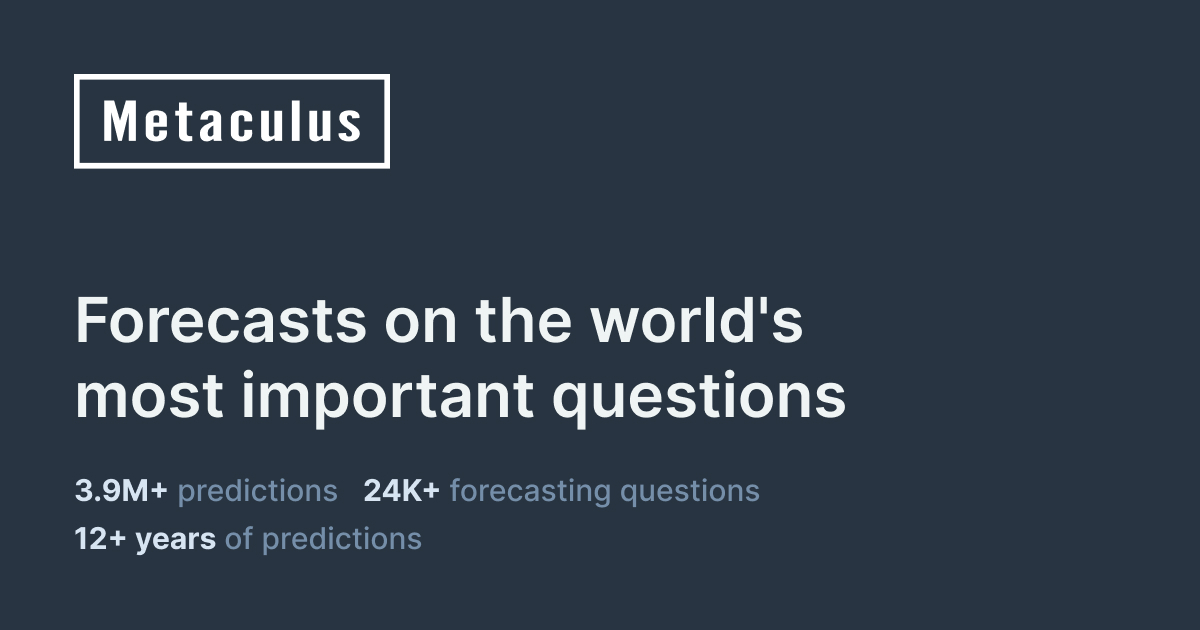
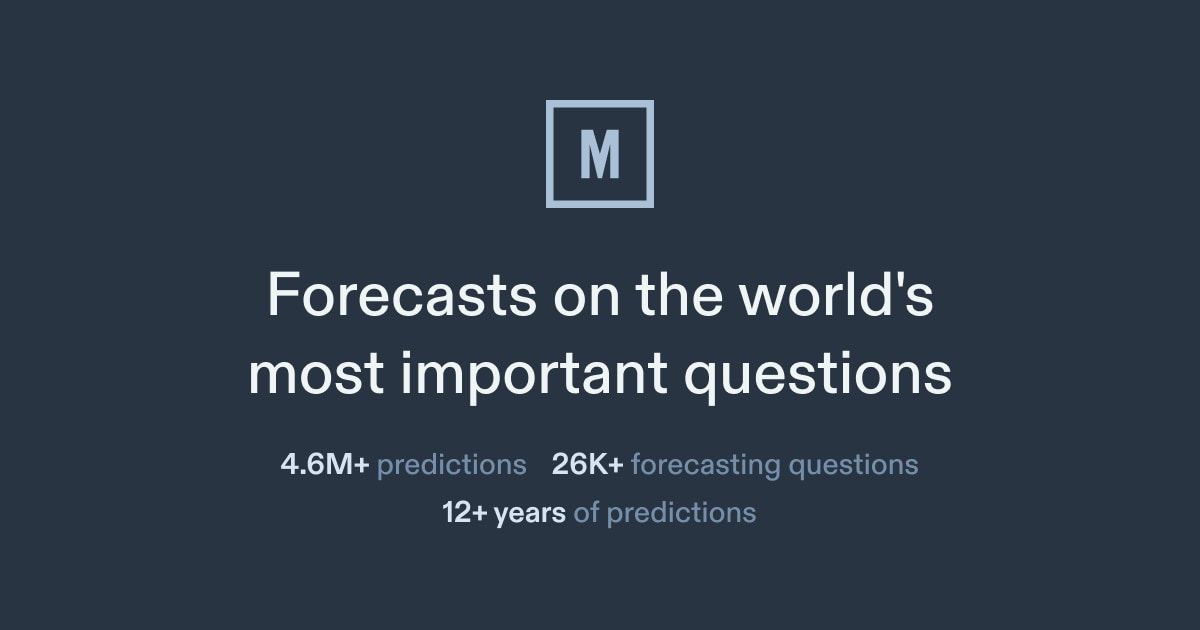
Roll out the new Metaculus wordmark (#5316)
* Roll out the new Metaculus wordmark

- Add the redrawn wordmark as a master SVG (metaculus_wordmark.svg),
  normalized like the mark masters (viewBox only, fill=currentColor), and
  regenerate the MetaculusWordmark component from it. All call sites size
  by height with w-auto, so no caller changes; the new art is ~12% narrower
  at the same height.
- The raster script is not re-run: the bare and boxed M sources are
  unchanged and the wordmark has no raster outputs. Note this in the
  script header.
- Storefront navbar: replace the boxed M + "Metaculus" text + tagline with
  the wordmark alone; label the link for screen readers and drop the now
  unused clarityInAComplexWorld string from all locales.
- Replace the default OG/Twitter banner with the new export (same path and
  1200x630 size, so no metadata change).

* Storefront navbar: shrink the wordmark and inset it on md+

Reduce the wordmark 25% (28px -> 21px, md 36px -> 27px) and add a 12px
left margin from the md breakpoint up.

---------

Changed region(s): [[0.0617, 0.4222, 0.8017, 0.8746], [0.0617, 0.0905, 0.3392, 0.2714], [0.4317, 0.1508, 0.555, 0.3317]]

diff --git a/front_end/src/components/logos/metaculus_wordmark.tsx b/front_end/src/components/logos/metaculus_wordmark.tsx
@@ -2,13 +2,45 @@ import { FC, SVGProps } from "react";
 
 const MetaculusWordmark: FC<SVGProps<SVGSVGElement>> = (props) => (
   <svg
-    viewBox="0 0 100 16"
+    viewBox="0 0 834 152"
     fill="none"
     xmlns="http://www.w3.org/2000/svg"
     {...props}
   >
     <path
-      d="M2.72914 15.8338V4.65282L5.45828 15.8338H6.85783L9.58697 4.65282V15.8338H12.3861V0H8.46732L6.15805 7.88131L3.84878 0H0V15.8338H2.72914ZM20.3113 16C23.0404 16 24.5449 14.8605 24.5449 12.7953L24.5445 12.6255C24.543 12.4646 24.5366 12.3182 24.51 11.7033H21.5009V12.7003C21.5009 13.6736 21.151 14.1009 20.3463 14.1009C19.5765 14.1009 19.2616 13.7448 19.2616 12.8902V10.2789H24.51V6.81306C24.51 4.98516 22.9704 3.86944 20.4162 3.86944C17.6171 3.86944 16.2176 4.96142 16.2176 7.16914V12.6766C16.2176 13.7685 16.4625 14.4095 17.1623 15.003C17.932 15.6677 18.9817 16 20.3113 16ZM21.4659 8.64095H19.2616V6.64688C19.2616 6.10089 19.6815 5.76855 20.3813 5.76855C21.081 5.76855 21.4659 6.07715 21.4659 6.64688V8.64095ZM32.6801 16C33.1699 16 33.5548 15.9525 34.4295 15.8338V13.9347L33.8697 13.9585C32.785 13.9585 32.2952 13.6261 32.2952 12.8665V5.93472H34.4295V4.03561H32.2952V0.807121H29.2512V4.03561H27.7816V5.93472H29.2512V13.5786C29.2512 15.1691 30.4408 16 32.6801 16ZM40.1154 16C41.1301 16 41.9698 15.6439 42.7046 14.8843C42.7396 15.2404 42.8096 15.5964 42.9145 15.8338H46.0635C45.7992 15.2733 45.7533 14.9669 45.749 14.0947L45.7486 6.69436C45.7486 4.86647 44.3491 3.86944 41.7949 3.86944C40.2204 3.86944 39.0308 4.29674 38.366 5.1276C37.9111 5.67359 37.7362 6.21958 37.5612 7.50148H40.5003C40.6403 6.07715 40.8502 5.76855 41.7599 5.76855C42.5646 5.76855 42.7046 5.93472 42.7046 6.83679V8.16617C42.3897 8.3086 42.1798 8.40356 42.1098 8.4273C39.6606 9.51929 39.6606 9.51929 38.9258 10.0653C37.9111 10.8487 37.4563 11.7507 37.4563 13.0089C37.4563 14.9792 38.366 16 40.1154 16ZM41.445 14.0772C40.8152 14.0772 40.5003 13.6499 40.5003 12.8427C40.5003 11.4896 41.0601 10.7062 42.7046 9.78041V13.4599C42.2847 13.8872 41.8999 14.0772 41.445 14.0772ZM53.6389 16C56.403 16 57.9075 14.8605 57.9075 12.7715L57.9071 12.6386C57.9054 12.4436 57.8953 12.2782 57.8375 11.5134H54.8285V12.7003C54.8285 13.7448 54.5486 14.1009 53.6738 14.1009C52.9041 14.1009 52.5892 13.7448 52.5892 12.8902V6.97923C52.5892 6.12463 52.9041 5.76855 53.6738 5.76855C54.5486 5.76855 54.8285 6.12463 54.8285 7.16914V8.16617H57.8375C57.8935 7.53946 57.9047 7.36855 57.9069 7.2037L57.9075 7.07418C57.9075 5.0089 56.368 3.86944 53.6389 3.86944C52.3093 3.86944 51.2596 4.20178 50.4898 4.86647C49.7901 5.4362 49.5451 6.07715 49.5451 7.19288V12.6766C49.5451 13.7923 49.7901 14.4332 50.4898 15.003C51.2596 15.6677 52.3093 16 53.6389 16ZM63.7334 16C64.6081 16 65.3079 15.7151 66.5675 14.8131L66.8124 15.8338H69.6115V4.03561H66.5675V13.6261C65.9377 13.9822 65.6228 14.1009 65.2029 14.1009C64.6781 14.1009 64.4331 13.816 64.4331 13.2226V4.03561H61.3891V13.2938C61.3891 14.4807 61.4941 14.9318 61.8789 15.3353C62.2288 15.7151 62.9986 16 63.7334 16ZM76.487 15.8338V0H73.443V15.8338H76.487ZM82.6278 16C83.5025 16 84.2023 15.7151 85.4619 14.8131L85.7068 15.8338H88.5059V4.03561H85.4619V13.6261C84.8321 13.9822 84.5172 14.1009 84.0973 14.1009C83.5725 14.1009 83.3276 13.816 83.3276 13.2226V4.03561H80.2835V13.2938C80.2835 14.4807 80.3885 14.9318 80.7734 15.3353C81.1233 15.7151 81.893 16 82.6278 16ZM95.8013 16C98.3205 16 100 14.7893 100 12.9614C100 11.7745 99.3352 10.8961 97.4808 9.56677L96.2562 8.71217C95.3115 8.02374 94.9966 7.59644 94.9966 6.88427C94.9966 6.10089 95.3115 5.76855 96.0113 5.76855C96.6761 5.76855 97.0259 6.12463 97.0259 6.83679V7.00297L99.93 6.86053C99.93 6.10089 99.8601 5.74481 99.6151 5.29377C99.0903 4.39169 97.8657 3.86944 96.2212 3.86944C93.4221 3.86944 92.0225 4.86647 92.0225 6.83679C92.0225 8.07122 92.6873 9.13946 94.0169 10.089L95.2065 10.9199C96.6411 11.9407 96.956 12.3442 96.956 13.0801C96.956 13.6973 96.5011 14.1009 95.8013 14.1009C95.0666 14.1009 94.6467 13.7211 94.6467 13.0801C94.6467 12.9614 94.6467 12.8902 94.6817 12.7003L91.7426 12.8427C91.7076 12.9614 91.7076 13.0089 91.7076 13.1276C91.7076 14.8843 93.2821 16 95.8013 16Z"
+      d="M812.303 73.4506C812.162 69.7812 810.962 67.0291 808.704 65.1943C806.587 63.3596 804.117 62.4423 801.295 62.4423C797.908 62.4423 795.297 63.5713 793.462 65.8294C791.627 67.9464 790.71 70.4163 790.71 73.2389C790.71 75.2148 791.204 77.1906 792.192 79.1665C793.18 81.0012 795.72 82.6948 799.813 84.2473L812.515 89.328C820.559 92.433 826.063 96.667 829.027 102.03C832.132 107.393 833.685 113.25 833.685 119.601C833.685 124.117 832.838 128.351 831.144 132.303C829.592 136.114 827.404 139.501 824.582 142.465C821.759 145.428 818.372 147.757 814.42 149.451C810.468 151.144 806.164 151.991 801.506 151.991C792.756 151.991 785.417 149.239 779.49 143.735C776.526 141.053 774.127 137.737 772.292 133.785C770.457 129.692 769.469 124.964 769.328 119.601H789.651C790.075 122.565 791.063 125.317 792.615 127.857C794.309 130.398 797.202 131.668 801.295 131.668C804.4 131.668 807.152 130.68 809.551 128.704C812.091 126.587 813.362 123.694 813.362 120.024C813.362 117.061 812.585 114.52 811.033 112.403C809.48 110.286 806.658 108.452 802.565 106.899L792.192 103.088C785.417 100.548 780.054 96.8081 776.102 91.8684C772.292 86.7877 770.387 80.6484 770.387 73.4506C770.387 68.9344 771.233 64.7709 772.927 60.9604C774.621 57.0086 776.949 53.6215 779.913 50.7988C782.736 47.9762 786.052 45.8592 789.863 44.4478C793.673 42.8954 797.766 42.1191 802.142 42.1191C806.517 42.1191 810.539 42.8954 814.208 44.4478C818.019 46.0003 821.265 48.1878 823.946 51.0105C826.628 53.8332 828.745 57.2203 830.297 61.1721C831.85 64.9826 832.626 69.0755 832.626 73.4506H812.303Z"
+      fill="currentColor"
+    />
+    <path
+      d="M733.033 43.3867V150.718H711.44V140.345H711.016C708.758 143.732 706.006 146.555 702.76 148.813C699.655 150.93 695.633 151.988 690.693 151.988C688.012 151.988 685.33 151.565 682.649 150.718C679.967 149.73 677.568 148.178 675.451 146.061C673.334 143.944 671.64 141.262 670.37 138.016C669.1 134.629 668.465 130.536 668.465 125.738V43.3867H690.058V117.693C690.058 121.645 690.975 124.75 692.81 127.008C694.645 129.266 697.256 130.395 700.643 130.395C704.736 130.395 707.559 129.125 709.111 126.584C710.664 124.044 711.44 120.375 711.44 115.576V43.3867H733.033Z"
+      fill="currentColor"
+    />
+    <path
+      d="M600.465 0H622.058V120.457C622.058 124.55 622.764 127.372 624.175 128.925C625.728 130.336 628.55 131.253 632.643 131.677V152C627.703 152 623.258 151.577 619.306 150.73C615.354 150.024 611.967 148.542 609.144 146.284C606.322 144.167 604.134 141.203 602.582 137.393C601.17 133.441 600.465 128.29 600.465 121.939V0Z"
+      fill="currentColor"
+    />
+    <path
+      d="M564.033 43.3867V150.718H542.44V140.345H542.016C539.758 143.732 537.006 146.555 533.76 148.813C530.655 150.93 526.633 151.988 521.693 151.988C519.012 151.988 516.33 151.565 513.649 150.718C510.967 149.73 508.568 148.178 506.451 146.061C504.334 143.944 502.64 141.262 501.37 138.016C500.1 134.629 499.465 130.536 499.465 125.738V43.3867H521.058V117.693C521.058 121.645 521.976 124.75 523.81 127.008C525.645 129.266 528.256 130.395 531.643 130.395C535.736 130.395 538.559 129.125 540.111 126.584C541.664 124.044 542.44 120.375 542.44 115.576V43.3867H564.033Z"
+      fill="currentColor"
+    />
+    <path
+      d="M426.058 119.813C426.058 123.2 426.976 125.811 428.81 127.646C430.786 129.48 433.397 130.398 436.643 130.398C440.736 130.398 443.417 129.198 444.688 126.799C446.099 124.4 446.946 122 447.228 119.601H468.821C468.821 129.057 465.928 136.678 460.142 142.465C457.319 145.428 453.932 147.757 449.98 149.451C446.028 151.144 441.583 151.991 436.643 151.991C429.869 151.991 424.082 150.58 419.284 147.757C414.626 144.934 411.028 141.194 408.487 136.537C406.935 133.714 405.876 130.468 405.312 126.799C404.747 123.129 404.465 119.107 404.465 114.732V79.3782C404.465 75.0031 404.747 70.9808 405.312 67.3113C405.876 63.6419 406.935 60.3958 408.487 57.5732C411.028 52.9158 414.626 49.1758 419.284 46.3531C424.082 43.5305 429.869 42.1191 436.643 42.1191C441.583 42.1191 446.028 42.9659 449.98 44.6595C454.073 46.3531 457.531 48.6818 460.353 51.6456C465.999 57.9966 468.821 66.2528 468.821 76.4144H447.228C447.228 72.0393 446.24 68.8638 444.264 66.8879C442.43 64.7709 439.889 63.7125 436.643 63.7125C433.397 63.7125 430.786 64.7709 428.81 66.8879C426.976 68.8638 426.058 71.8982 426.058 75.991V119.813Z"
+      fill="currentColor"
+    />
+    <path
+      d="M351.922 150.721V139.712H351.498C348.676 143.664 345.782 146.699 342.819 148.816C339.996 150.933 335.974 151.991 330.752 151.991C328.211 151.991 325.6 151.568 322.919 150.721C320.378 150.015 317.909 148.604 315.509 146.487C313.11 144.511 311.134 141.688 309.582 138.019C308.171 134.208 307.465 129.339 307.465 123.412C307.465 117.343 307.959 112.05 308.947 107.534C309.935 102.877 311.769 98.9956 314.451 95.8907C316.991 92.9269 320.449 90.7394 324.824 89.328C329.199 87.7756 334.774 86.9994 341.548 86.9994C342.254 86.9994 343.03 86.9994 343.877 86.9994C344.724 86.9994 345.5 87.0699 346.206 87.2111C346.911 87.3522 347.758 87.4228 348.746 87.4228C349.734 87.4228 350.793 87.4933 351.922 87.6345V76.4144C351.922 72.7449 351.145 69.7106 349.593 67.3113C348.041 64.9121 345.218 63.7125 341.125 63.7125C338.302 63.7125 335.691 64.6298 333.292 66.4645C331.034 68.2993 329.552 70.9808 328.846 74.5091H307.888C308.453 64.9121 311.699 57.1498 317.626 51.2222C320.449 48.3996 323.836 46.212 327.788 44.6595C331.74 42.9659 336.185 42.1191 341.125 42.1191C345.641 42.1191 349.875 42.8248 353.827 44.2361C357.779 45.6475 361.236 47.7644 364.2 50.5871C367.023 53.4098 369.281 56.9381 370.975 61.1721C372.668 65.406 373.515 70.3457 373.515 75.991V150.721H351.922ZM351.922 104.57C349.522 104.147 347.547 103.935 345.994 103.935C341.337 103.935 337.314 105.064 333.927 107.322C330.681 109.439 329.058 113.391 329.058 119.178C329.058 123.27 330.046 126.587 332.022 129.127C333.998 131.668 336.75 132.938 340.278 132.938C343.948 132.938 346.77 131.738 348.746 129.339C350.863 126.94 351.922 123.553 351.922 119.178V104.57Z"
+      fill="currentColor"
+    />
+    <path
+      d="M242.262 43.4064V10.8047H263.855V43.4064H277.192V60.3423H263.855V119.83C263.855 122.37 264.067 124.346 264.49 125.757C265.054 127.169 265.901 128.227 267.03 128.933C268.159 129.638 269.5 130.062 271.053 130.203C272.746 130.344 274.793 130.415 277.192 130.415V150.738H268.301C263.361 150.738 259.197 149.962 255.81 148.409C252.564 146.857 249.953 144.881 247.977 142.482C246.002 140.082 244.52 137.401 243.532 134.437C242.685 131.332 242.262 128.368 242.262 125.546V60.3423H231.465V43.4064H242.262Z"
+      fill="currentColor"
+    />
+    <path
+      d="M208.821 105.205H166.058V119.813C166.058 123.2 166.976 125.811 168.81 127.646C170.786 129.48 173.397 130.398 176.643 130.398C180.736 130.398 183.417 129.198 184.688 126.799C186.099 124.4 186.946 122 187.228 119.601H208.821C208.821 129.057 205.928 136.678 200.142 142.465C197.319 145.428 193.932 147.757 189.98 149.451C186.028 151.144 181.583 151.991 176.643 151.991C169.869 151.991 164.082 150.58 159.284 147.757C154.626 144.934 151.028 141.194 148.487 136.537C146.935 133.714 145.876 130.468 145.312 126.799C144.747 123.129 144.465 119.107 144.465 114.732V79.3782C144.465 75.0031 144.747 70.9808 145.312 67.3113C145.876 63.6419 146.935 60.3958 148.487 57.5732C151.028 52.9158 154.626 49.1758 159.284 46.3531C164.082 43.5305 169.869 42.1191 176.643 42.1191C181.583 42.1191 186.028 42.9659 189.98 44.6595C194.073 46.3531 197.531 48.6818 200.353 51.6456C205.999 57.9966 208.821 65.9706 208.821 75.5676V105.205ZM166.058 88.2696H187.228V75.991C187.228 71.8982 186.24 68.8638 184.264 66.8879C182.43 64.7709 179.889 63.7125 176.643 63.7125C173.397 63.7125 170.786 64.7709 168.81 66.8879C166.976 68.8638 166.058 71.8982 166.058 75.991V88.2696Z"
+      fill="currentColor"
+    />
+    <path
+      d="M25.339 47.1965V151H0V4H35.7344L57.175 77.1696L78.6157 4H115V151H89.0112V47.1965L63.6722 151H50.678L25.339 47.1965Z"
       fill="currentColor"
     />
   </svg>

diff --git a/front_end/src/app/(storefront)/components/storefront_navbar.tsx b/front_end/src/app/(storefront)/components/storefront_navbar.tsx
@@ -13,7 +13,7 @@ import { useRouter } from "next/navigation";
 import { useTranslations } from "next-intl";
 import { FC, FormEvent, useCallback, useEffect, useRef, useState } from "react";
 
-import { MetaculusMarkBoxed } from "@/components/logos";
+import { MetaculusWordmark } from "@/components/logos";
 import {
   POST_ORDER_BY_FILTER,
   POST_TEXT_SEARCH_FILTER,
@@ -171,16 +171,15 @@ const StorefrontNavbar: FC = () => {
       {/* Main navbar row */}
       <div className="flex items-center justify-between">
         {/* Logo */}
-        <Link href={logoHref} className="inline-flex items-center no-underline">
-          <MetaculusMarkBoxed className="h-[38px] w-auto text-white md:h-[50px]" />
-          <div className="ml-3.5 flex flex-col gap-0.5">
-            <span className="text-lg font-bold leading-tight tracking-[-0.36px] text-white md:text-xl">
-              Metaculus
-            </span>
-            <span className="text-xs font-medium text-[#adbfd4] opacity-75 md:text-sm">
-              {t("clarityInAComplexWorld")}
-            </span>
-          </div>
+        <Link
+          href={logoHref}
+          className="inline-flex items-center no-underline"
+          aria-label={t("metaculus")}
+        >
+          <MetaculusWordmark
+            aria-hidden
+            className="h-[21px] w-auto text-white md:ml-3 md:h-[27px]"
+          />
         </Link>
 
         {/* Right side: search + hamburger */}
